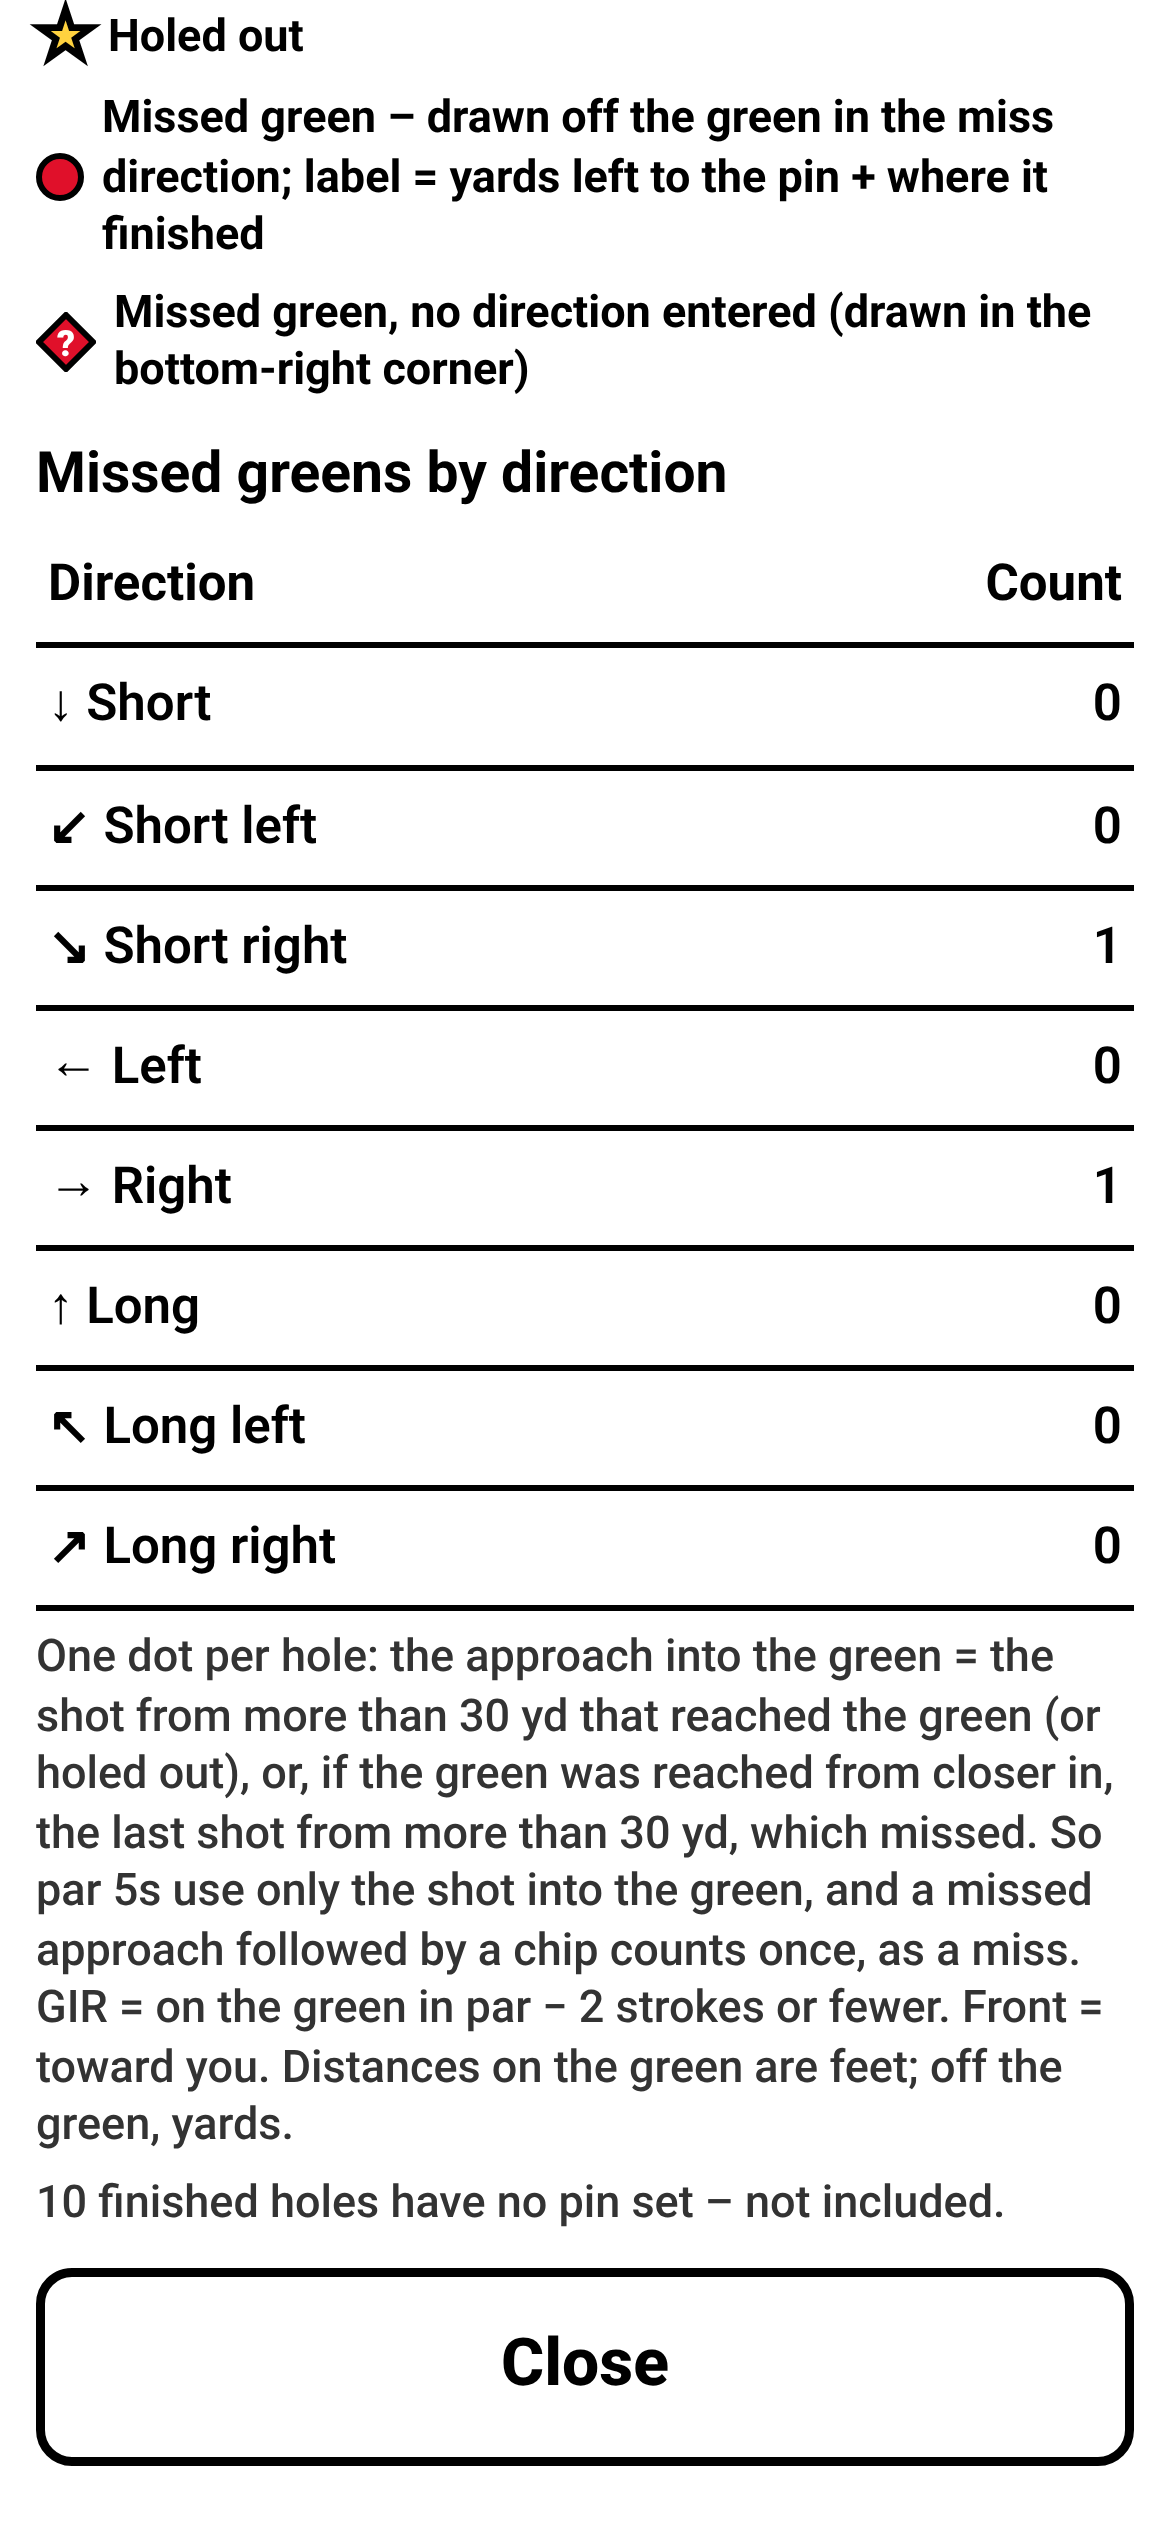
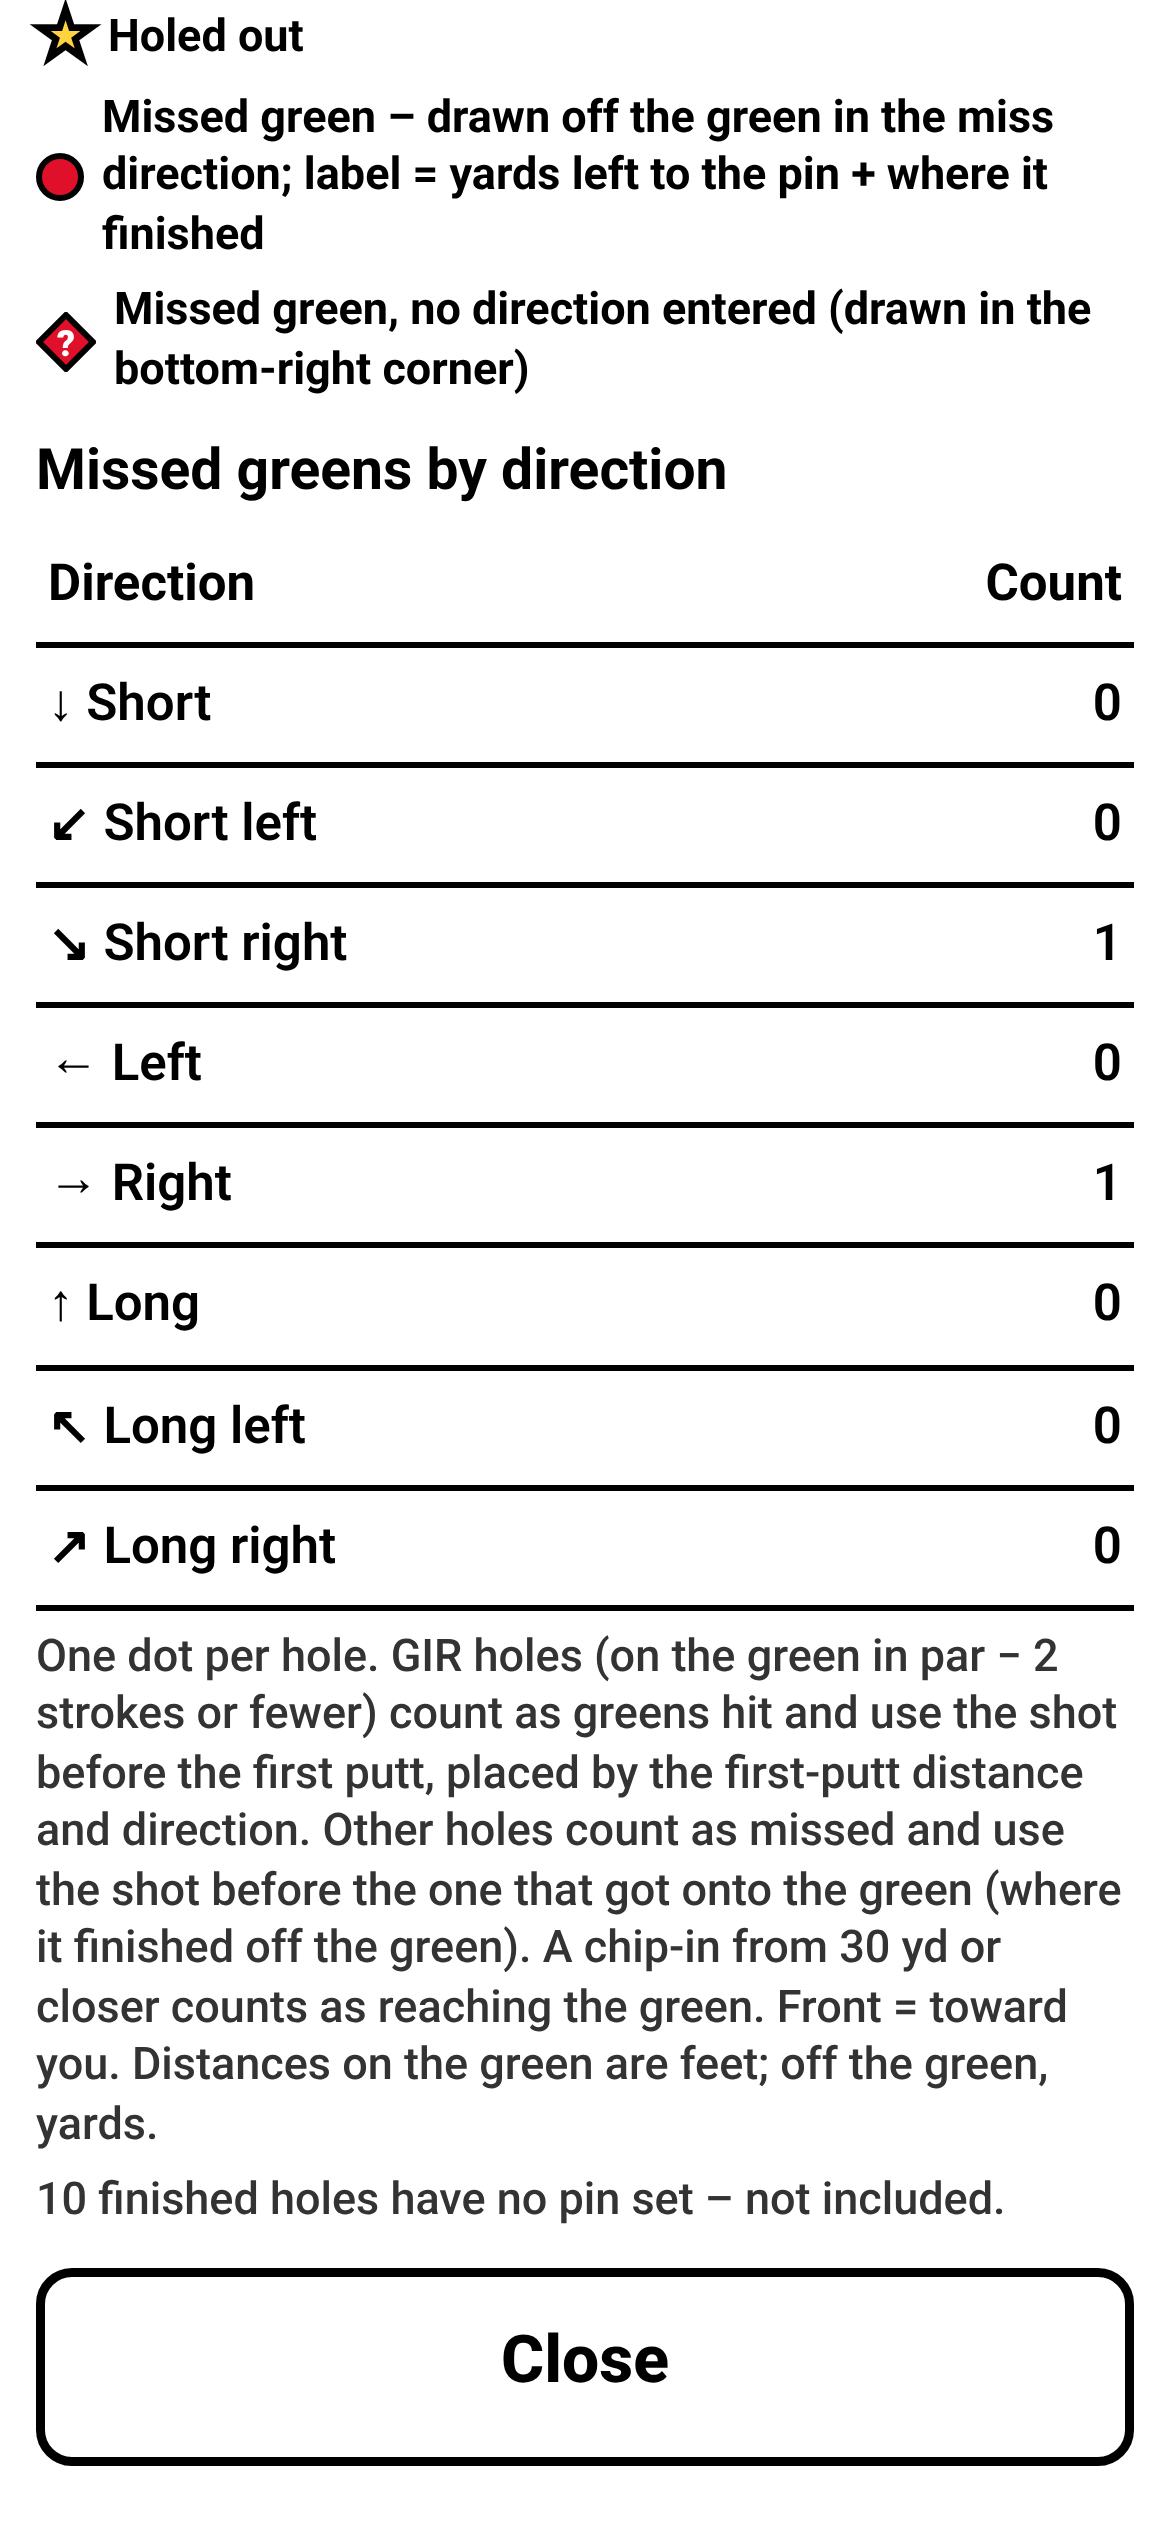
v10: pin map per-hole rule per Scott: GIR = green hit (shot before first putt), else missed (shot before the green-reaching shot)

diff --git a/app.js b/app.js
@@ -569,7 +569,7 @@
         var qx = 334 - nd * 26, qy = 392; nd++;
         out += '<g class="pdot" data-kind="missnodir" data-hole="' + m.hole + '"><path d="M' + qx + ' ' + (qy - 10) + ' l10 10 -10 10 -10 -10z" fill="#e0102a" stroke="#000" stroke-width="2.5"/>' +
           '<text x="' + qx + '" y="' + (qy + 5) + '" text-anchor="middle" font-size="12" font-weight="900" fill="#fff">?</text></g>' +
-          lbl(qx, qy + 24, m.lie === 'ob' ? 'OB' : Math.round(m.dist) + ' yd', '', 'mlbl');
+          lbl(qx, qy + 24, m.lie === 'ob' ? 'OB' : Math.round(m.dist) + (m.unit === 'ft' ? ' ft' : ' yd'), '', 'mlbl');
         return;
       }
       var a = SG.DIR_ANGLE[m.dir], t = a * Math.PI / 180, j = seen['m' + m.dir] = (seen['m' + m.dir] || 0) + 1;
@@ -579,7 +579,7 @@
       q = [q[0] + side * Math.sin(t), q[1] + side * Math.cos(t)];
       q = [Math.max(24, Math.min(336, q[0])), Math.max(14, Math.min(420, q[1]))];
       out += '<circle class="pdot" data-kind="miss" data-gir="' + (m.gir ? 1 : 0) + '" data-hole="' + m.hole + '" cx="' + f1(q[0]) + '" cy="' + f1(q[1]) + '" r="7" fill="#e0102a" stroke="#000" stroke-width="2.5"/>' +
-        lbl(q[0], q[1] + 20, m.lie === 'ob' ? 'OB' : Math.round(m.dist) + ' yd', m.lie === 'ob' ? '' : (LN[m.lie] || m.lie), 'mlbl');
+        lbl(q[0], q[1] + 20, m.lie === 'ob' ? 'OB' : Math.round(m.dist) + (m.unit === 'ft' ? ' ft' : ' yd'), m.lie === 'ob' ? '' : (LN[m.lie] || (m.lie === 'green' ? 'Green' : m.lie)), 'mlbl');
     });
     out += '<line x1="' + f1(P[0]) + '" y1="' + f1(P[1]) + '" x2="' + f1(P[0]) + '" y2="' + f1(P[1] - 30) + '" stroke="#000" stroke-width="3"/>' +
       '<path d="M' + f1(P[0]) + ' ' + f1(P[1] - 30) + ' l20 6 l-20 6z" fill="#d0213a"/><circle id="pinflag" cx="' + f1(P[0]) + '" cy="' + f1(P[1]) + '" r="5" fill="#000"/>' +
@@ -604,17 +604,16 @@
     var nodirMiss = miss.filter(function (m) { return !m.dir; }).length;
     var out2 = '<button class="big" data-act="pinseg" data-v="">‹ All pin positions</button>' +
       '<p class="mapsum" id="mapsum">Pin <b>' + SG.PIN_NAME[seg] + '</b>: ' + hs.length + ' hole' + (hs.length === 1 ? '' : 's') + scope + '</p>' +
-      '<div class="fwcounts" id="pinsum"><span>Greens hit <b>' + gir.length + '</b></span><span>+ Missed <b>' + miss.length + '</b></span><span>= <b>' + hs.length + '</b> hole' + (hs.length === 1 ? '' : 's') + '</span><span>GIR <b>' + g + ' / ' + hs.length + '</b></span></div>' +
+      '<div class="fwcounts" id="pinsum"><span>Greens hit (GIR) <b>' + gir.length + '</b></span><span>+ Missed <b>' + miss.length + '</b></span><span>= <b>' + hs.length + '</b> hole' + (hs.length === 1 ? '' : 's') + '</span></div>' +
       pinSVG(seg, gir, miss) +
       '<div class="legend"><span><i class="dot" style="background:#fff"></i>Green hit in regulation (GIR) – first-putt distance (ft) and direction from the pin; kept on the green if it runs past the drawn edge</span>' +
-      '<span><i class="dot" style="background:#bdbdbd"></i>Green hit, but not in regulation</span>' +
       '<span><svg width="20" height="20" viewBox="0 0 20 20" style="flex:none"><path d="M10 1 l9 9 -9 9 -9 -9z" fill="#fff" stroke="#000" stroke-width="2"/><text x="10" y="14.5" text-anchor="middle" font-size="12" font-weight="900">?</text></svg>Green hit, no direction entered (drawn straight up)</span>' +
       '<span><b class="star">★</b>Holed out</span>' +
       '<span><i class="dot" style="background:#e0102a"></i>Missed green – drawn off the green in the miss direction; label = yards left to the pin + where it finished</span>' +
       '<span><svg width="20" height="20" viewBox="0 0 20 20" style="flex:none"><path d="M10 1 l9 9 -9 9 -9 -9z" fill="#e0102a" stroke="#000" stroke-width="2"/><text x="10" y="14.5" text-anchor="middle" font-size="12" font-weight="900" fill="#fff">?</text></svg>Missed green, no direction entered (drawn in the bottom-right corner)</span></div>' +
       '<h3>Missed greens by direction</h3>' + dirTable(miss).replace('(not plotted)', '(drawn as ?)') +
-      '<p class="help muted">One dot per hole: the approach into the green = the shot from more than 30 yd that reached the green (or holed out), or, if the green was reached from closer in, the last shot from more than 30 yd, which missed. ' +
-      'So par 5s use only the shot into the green, and a missed approach followed by a chip counts once, as a miss. GIR = on the green in par − 2 strokes or fewer. ' +
+      '<p class="help muted">One dot per hole. GIR holes (on the green in par − 2 strokes or fewer) count as greens hit and use the shot before the first putt, placed by the first-putt distance and direction. ' +
+      'Other holes count as missed and use the shot before the one that got onto the green (where it finished off the green). A chip-in from 30 yd or closer counts as reaching the green. ' +
       'Front = toward you. Distances on the green are feet; off the green, yards.</p>' + note;
     return out2;
   }

diff --git a/tests/sg.test.js b/tests/sg.test.js
@@ -394,10 +394,14 @@ test('keyApproach: one entry per hole (par 5 two long shots, missed-then-chip, d
   assert.deepStrictEqual(pick(A([4, [R(400, 'tee'), R(150, 'fairway'), R(15, 'rough', 'shortleft'), R(4, 'green'), R(1, 'holed')]])), [2, false, false, false, 'shortleft', 0, 'rough', 15]);
   // drive the green
   assert.deepStrictEqual(pick(A([4, [R(300, 'tee'), R(20, 'green', 'right'), R(2, 'green'), R(1, 'holed')]])), [1, true, true, false, 'right', 20, 'green', 0]);
-  // tee shot to 25 yd, chip on in 2 -> the tee shot is the approach, missed the green (the hole is still GIR)
-  assert.deepStrictEqual(pick(A([4, [R(330, 'tee'), R(25, 'rough', 'right'), R(5, 'green'), R(1, 'holed')]])), [1, false, true, false, 'right', 0, 'rough', 25]);
-  // approach OB, re-hit onto the green -> the re-hit (hit, not GIR)
-  assert.deepStrictEqual(pick(A([4, [R(400, 'tee'), R(170, 'fairway'), R('', 'ob', 'right'), R(10, 'green'), R(1, 'holed')]])), [3, true, false, false, '', 10, 'green', 0]);
+  // tee shot to 25 yd, chip on in 2 -> GIR, so green hit with the shot before the first putt (the chip)
+  assert.deepStrictEqual(pick(A([4, [R(330, 'tee'), R(25, 'rough', 'right'), R(5, 'green'), R(1, 'holed')]])), [2, true, true, false, '', 5, 'green', 0]);
+  // approach OB, re-hit onto the green in 4 -> not GIR: missed, using the shot before (the OB one)
+  assert.deepStrictEqual(pick(A([4, [R(400, 'tee'), R(170, 'fairway'), R('', 'ob', 'right'), R(10, 'green'), R(1, 'holed')]])), [2, false, false, false, 'right', 0, 'ob', 170]);
+  // never on the green, not GIR: 60-yd pitch finishes 15 yd off and is chipped in -> missed, the shot before = the 240-yd approach
+  assert.deepStrictEqual(pick(A([4, [R(420, 'tee'), R(240, 'rough'), R(60, 'rough', 'short'), R(15, 'holedx')]])), [2, false, false, false, 'short', 0, 'rough', 60]);
+  // approach misses, chip misses again, second chip onto the green -> the shot before the green-reaching shot (1st chip)
+  assert.deepStrictEqual(pick(A([4, [R(400, 'tee'), R(150, 'fairway'), R(20, 'rough', 'left'), R(8, 'rough', 'long'), R(4, 'green'), R(1, 'holed')]])), [3, false, false, false, 'long', 0, 'rough', 8]);
   // chip-in from off the green after the approach (Scott's rule: reached the green) and eagle hole-out
   assert.deepStrictEqual(pick(A([4, [R(400, 'tee'), R(120, 'fairway'), R(15, 'holedx')]])), [2, true, true, true, '', 0, 'green', 0]);
   assert.deepStrictEqual(pick(A([4, [R(360, 'tee'), R(110, 'holedx')]])), [2, true, true, true, '', 0, 'green', 0]);
@@ -426,6 +430,7 @@ test('pin map consistency on random rounds: badges sum = holes, hit + missed = h
       const on = S.pinHoles.filter(x => x.pin === p); sum += on.length;
       assert.ok(on.every(x => x.appr), 'every hole has an approach entry');
       assert.strictEqual(on.filter(x => x.appr.hit).length + on.filter(x => !x.appr.hit).length, on.length);
+      assert.strictEqual(on.filter(x => x.appr.hit).length, on.filter(x => x.gir).length, 'greens hit = GIR holes');
       assert.ok(on.filter(x => x.gir).length <= on.length);
     }
     assert.strictEqual(sum, S.pinHoles.length);

diff --git a/sg.js b/sg.js
@@ -265,21 +265,24 @@
     return !r.ob && (r.end.lie === 'green' || r.end.lie === 'holed' || r.loc === 'holed' || (r.loc === 'holedx' && r.end.dist <= 30));
   }
   /**
-   * The hole's ONE "approach into the green" (used by the pin-location map, one entry per hole):
-   *  - if the shot that first reached the green was hit from more than 30 yd (off the green), that shot -> green hit;
-   *  - otherwise the last shot from more than 30 yd before it -> missed green (e.g. missed approach, then a chip on).
-   * Par 5s with two long shots therefore use only the later one.
+   * The hole's ONE "approach into the green" (pin-location map: one entry per hole). Scott's rule:
+   *  - fr = the shot that reached the green = the shot before the first putt (or, if the ball was
+   *    holed from off the green, the hole-out itself / the shot before a chip-in - see reachedGreen);
+   *  - GIR hole  -> "green hit": that shot, positioned by first-putt distance + direction;
+   *  - not GIR   -> "missed green": the shot before fr (its result was off the green: where it missed,
+   *    yards left, lie). If there is none (ambiguous), fr is used and the hole is still marked missed.
+   * So greens hit = GIR holes and greens hit + missed = holes.
    */
   function keyApproach(out, gir) {
-    var far = function (r) { return r.start.lie !== 'green' && r.start.dist > 30; };
+    if (!out.length) return null;
     var fr = -1; for (var i = 0; i < out.length; i++) { if (reachedGreen(out[i])) { fr = i; break; } }
-    var k = -1, hit = false;
-    if (fr >= 0 && far(out[fr])) { k = fr; hit = true; }
-    else { for (var j = (fr >= 0 ? fr : out.length) - 1; j >= 0; j--) { if (far(out[j])) { k = j; break; } } if (k < 0 && fr >= 0) { k = fr; hit = true; } }
-    if (k < 0) return null;
-    var r = out[k], ho = hit && (r.end.lie === 'holed' || r.loc === 'holedx');
-    return { shot: r.n, hit: hit, gir: !!gir, holed: ho, dir: ho ? '' : r.dir, ft: hit && !ho ? r.end.dist : 0,
-      lie: hit ? 'green' : (r.ob ? 'ob' : r.end.lie), dist: hit ? 0 : r.end.dist, from: r.start.dist };
+    if (fr < 0) fr = out.length - 1;
+    var hit = !!gir, k = hit ? fr : (fr > 0 ? fr - 1 : fr), r = out[k], amb = !hit && k === fr;
+    var ho = hit && (r.end.lie === 'holed' || r.loc === 'holedx');
+    var onG = r.end.lie === 'green';
+    return { shot: r.n, hit: hit, gir: !!gir, holed: ho, ambiguous: amb, dir: ho ? '' : r.dir, ft: hit && !ho ? r.end.dist : 0,
+      lie: hit ? 'green' : (r.ob ? 'ob' : (onG || r.end.lie === 'holed') ? 'green' : r.end.lie), dist: hit ? 0 : r.end.dist,
+      unit: !hit && onG ? 'ft' : 'yd', from: r.start.dist };
   }
   function analyzeHole(hole, baseline) {
     var bad = null, problem = '', complete = null, finished = true, rowsFmt = !!hole.rows, nRows = 0, liveStrokes = 0;

diff --git a/tests/e2e.js b/tests/e2e.js
@@ -340,7 +340,7 @@ let passed = 0; const ok = (m) => { passed++; console.log('  ✓', m); };
   await page.screenshot({ path: `${SHOTS}/20-pin-map-overview.png` });
   await page.click('#pinstats [data-v="frontleft"]'); await page.waitForSelector('#pinmap');
   assert.match(await page.textContent('#mapsum'), /Pin Front left: 5 holes in 3 rounds/);
-  assert.match(await page.textContent('#pinsum'), /Greens hit 3\s*\+ Missed 2\s*= 5 holes\s*GIR 3 \/ 5/);
+  assert.match(await page.textContent('#pinsum'), /Greens hit \(GIR\) 3\s*\+ Missed 2\s*= 5 holes$/);
   const pk = await page.$$eval('#pinmap .pdot', ds => ds.map(d => d.getAttribute('data-kind') + ':' + d.getAttribute('data-hole')));
   assert.deepStrictEqual(pk.sort(), ['gir:13', 'gir:8', 'gir:9', 'miss:1', 'miss:2']);
   const flag = await page.$eval('#pinflag', c => [+c.getAttribute('cx'), +c.getAttribute('cy')]);
@@ -447,7 +447,7 @@ let passed = 0; const ok = (m) => { passed++; console.log('  ✓', m); };
   ok('repro pin map: header 5 = badges 4 + 1; Center GIR 3/4 (y = badge); 2 holes without pin noted');
   await page.screenshot({ path: `${SHOTS}/22-pin-map-holes-overview.png` });
   await page.click('#pinstats [data-v="center"]'); await page.waitForSelector('#pinmap');
-  assert.match(await page.textContent('#pinsum'), /Greens hit 3\s*\+ Missed 1\s*= 4 holes\s*GIR 3 \/ 4/);
+  assert.match(await page.textContent('#pinsum'), /Greens hit \(GIR\) 3\s*\+ Missed 1\s*= 4 holes$/);
   const ck = await page.$$eval('#pinmap .pdot', ds => ds.map(d => d.getAttribute('data-kind') + ':' + d.getAttribute('data-hole')).sort());
   assert.deepStrictEqual(ck, ['gir:1', 'gir:4', 'miss:6', 'nodir:3']); ok('Center: 4 dots for 4 holes (par 5 = 1 dot, missed-then-chip = 1 red dot), 3 + 1 = 4');
   await page.screenshot({ path: `${SHOTS}/23-pin-map-holes-center.png` });

diff --git a/sw.js b/sw.js
@@ -1,5 +1,5 @@
 // Offline support: cache the whole app on install, serve cache-first.
-const CACHE = 'golf-sg-v9';
+const CACHE = 'golf-sg-v10';
 const ASSETS = ['./', './index.html', './styles.css', './sg.js', './app.js',
   './manifest.webmanifest', './icons/apple-touch-icon.png', './icons/icon-192.png',
   './icons/icon-512.png', './icons/icon-512-maskable.png'];
